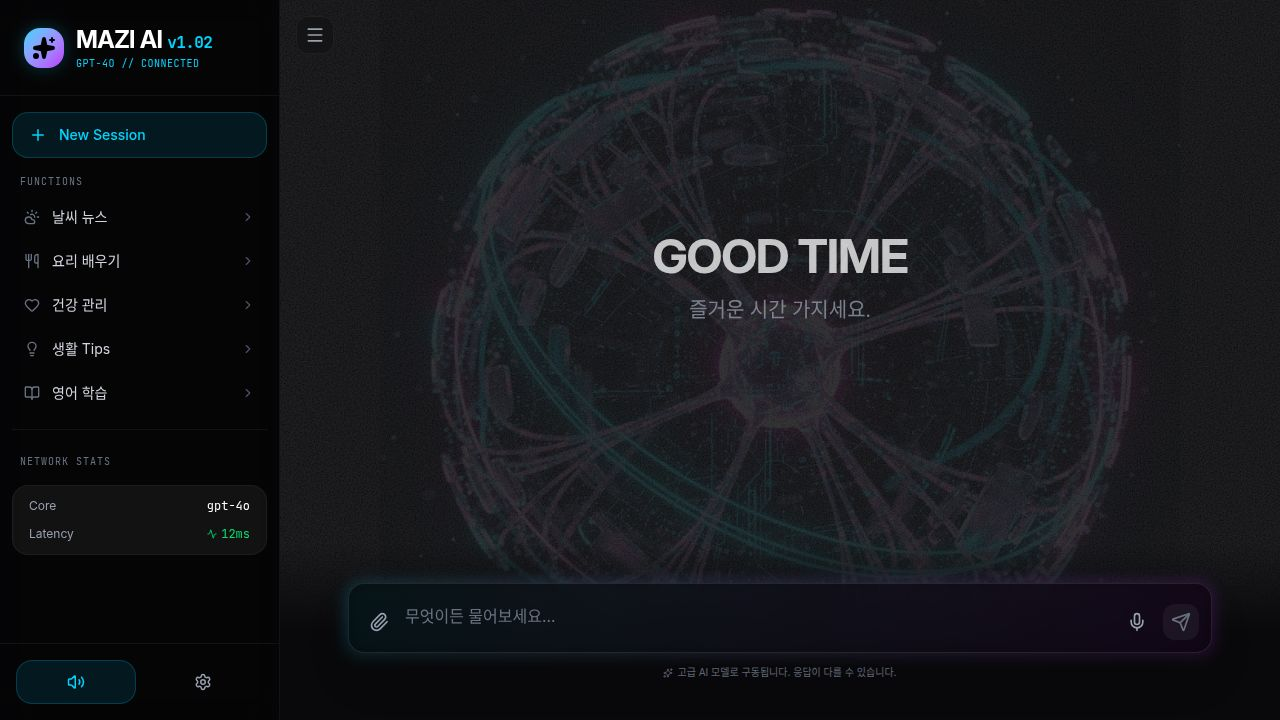
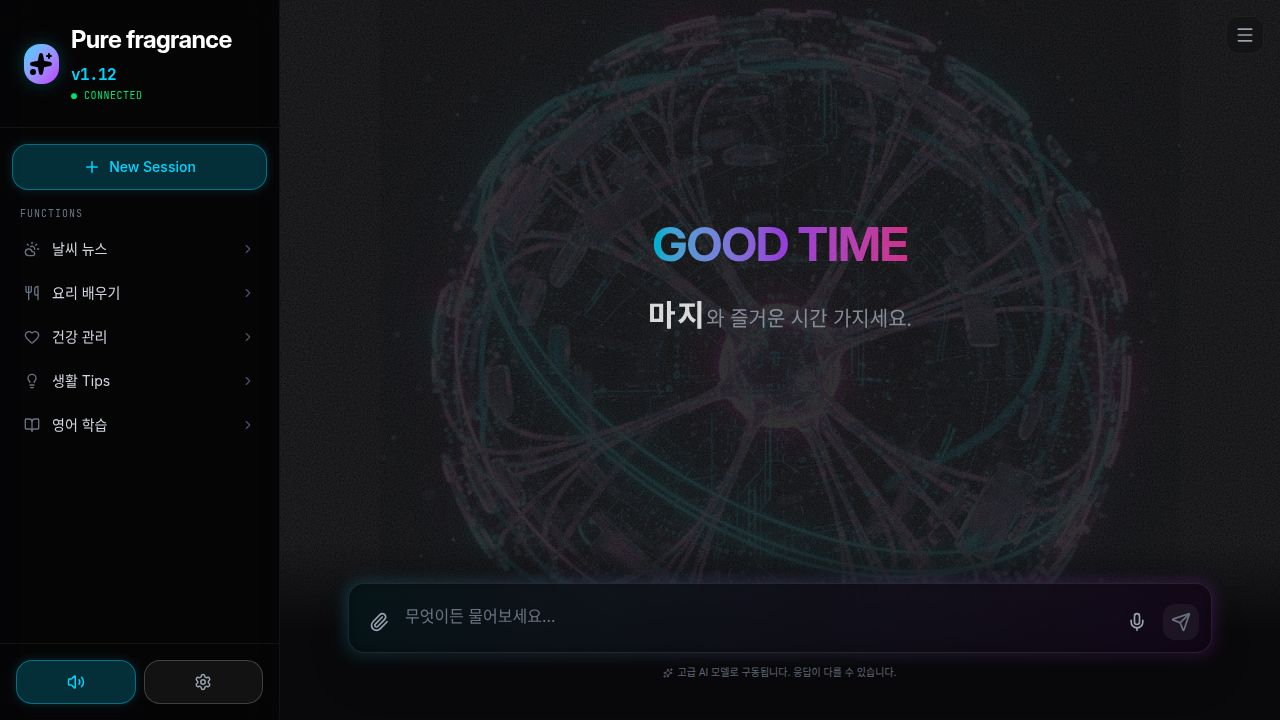
Update application name and version information
Update the application name from "MAZI AI" to "Pure fragrance" across client-side HTML meta tags, React components (Home.tsx for sidebar, mobile header, and settings modal), and server-side system prompts. Also, increment the application version from v1.11 to v1.12 in Home.tsx.

Replit-Commit-Author: Agent
Replit-Commit-Session-Id: b53bbd0a-6b91-4287-a6fb-4cf35cea0462
Replit-Commit-Checkpoint-Type: full_checkpoint
Replit-Commit-Event-Id: 97d8d040-757f-48f3-991b-9b6b91fa6748
Replit-Commit-Screenshot-Url: https://storage.googleapis.com/screenshot-production-us-central1/17fa975f-c6c1-48b8-9661-623460284cfc/b53bbd0a-6b91-4287-a6fb-4cf35cea0462/nSYM4Nt
Replit-Helium-Checkpoint-Created: true

diff --git a/client/src/pages/Home.tsx b/client/src/pages/Home.tsx
@@ -11,7 +11,7 @@ import { cn } from '@/lib/utils';
 import generatedImage from '@assets/generated_images/futuristic_abstract_ai_core_glowing_sphere.png';
 
 // App Version - 코드 수정 시 반드시 +0.01 업데이트
-const APP_VERSION = "v1.11";
+const APP_VERSION = "v1.12";
 
 export default function Home() {
   const [messages, setMessages] = useState<ChatMessage[]>([]);
@@ -186,7 +186,7 @@ export default function Home() {
                 <Settings className="text-primary" size={20} /> System Configuration
               </h2>
               <p className="text-gray-400 text-sm mb-6 leading-relaxed">
-                Configure your MAZI AI connection settings.
+                Configure your Pure fragrance connection settings.
               </p>
               
               <div className="space-y-4">
@@ -277,7 +277,7 @@ export default function Home() {
             <Sparkles className="text-black" fill="black" />
           </div>
           <div>
-            <h1 className="font-bold text-2xl tracking-tight text-white">MAZI AI <span className="text-primary text-base font-mono">{APP_VERSION}</span></h1>
+            <h1 className="font-bold text-2xl tracking-tight text-white">Pure fragrance <span className="text-primary text-base font-mono">{APP_VERSION}</span></h1>
             <p className="text-[10px] text-green-400 font-mono tracking-wider uppercase">● CONNECTED</p>
           </div>
         </div>
@@ -374,7 +374,7 @@ export default function Home() {
             className="flex items-center gap-3 active:opacity-70 transition-opacity"
           >
             <Menu className="text-primary" size={20} />
-            <span className="font-bold text-xl text-white">MAZI AI <span className="text-primary text-sm font-mono">{APP_VERSION}</span></span>
+            <span className="font-bold text-xl text-white">Pure fragrance <span className="text-primary text-sm font-mono">{APP_VERSION}</span></span>
           </button>
           <div className="flex items-center gap-2">
              <button 

diff --git a/client/index.html b/client/index.html
@@ -4,14 +4,14 @@
     <meta charset="UTF-8" />
     <meta name="viewport" content="width=device-width, initial-scale=1.0, maximum-scale=1" />
 
-    <meta property="og:title" content="Replit Design" />
-    <meta property="og:description" content="A website made with Replit Design" />
+    <meta property="og:title" content="Pure fragrance" />
+    <meta property="og:description" content="AI 음성 비서 - 날씨, 뉴스, 요리, 건강, 영어 학습 등 다양한 서비스 제공" />
     <meta property="og:type" content="website" />
     <meta property="og:image" content="https://replit.com/public/images/opengraph.png" />
     <meta name="twitter:card" content="summary_large_image" />
     <meta name="twitter:site" content="@replit" />
-    <meta name="twitter:title" content="Replit Design" />
-    <meta name="twitter:description" content="A website made with Replit Design" />
+    <meta name="twitter:title" content="Pure fragrance" />
+    <meta name="twitter:description" content="AI 음성 비서 - 날씨, 뉴스, 요리, 건강, 영어 학습 등 다양한 서비스 제공" />
     <meta name="twitter:image" content="https://replit.com/public/images/opengraph.png" />
 
     <link rel="icon" type="image/png" href="/favicon.png" />

diff --git a/server/routes.ts b/server/routes.ts
@@ -89,7 +89,7 @@ export async function registerRoutes(
 
       const systemMessage: ChatMessage = {
         role: "system",
-        content: `You are MAZI AI, a futuristic, advanced AI companion with real-time web search capabilities. You are helpful, precise, and have a slight cyberpunk personality.
+        content: `You are Pure fragrance, a futuristic, advanced AI companion with real-time web search capabilities. You are helpful, precise, and have a slight cyberpunk personality.
 
 **중요: 모든 답변은 반드시 한국어로 작성해야 합니다.**
 
